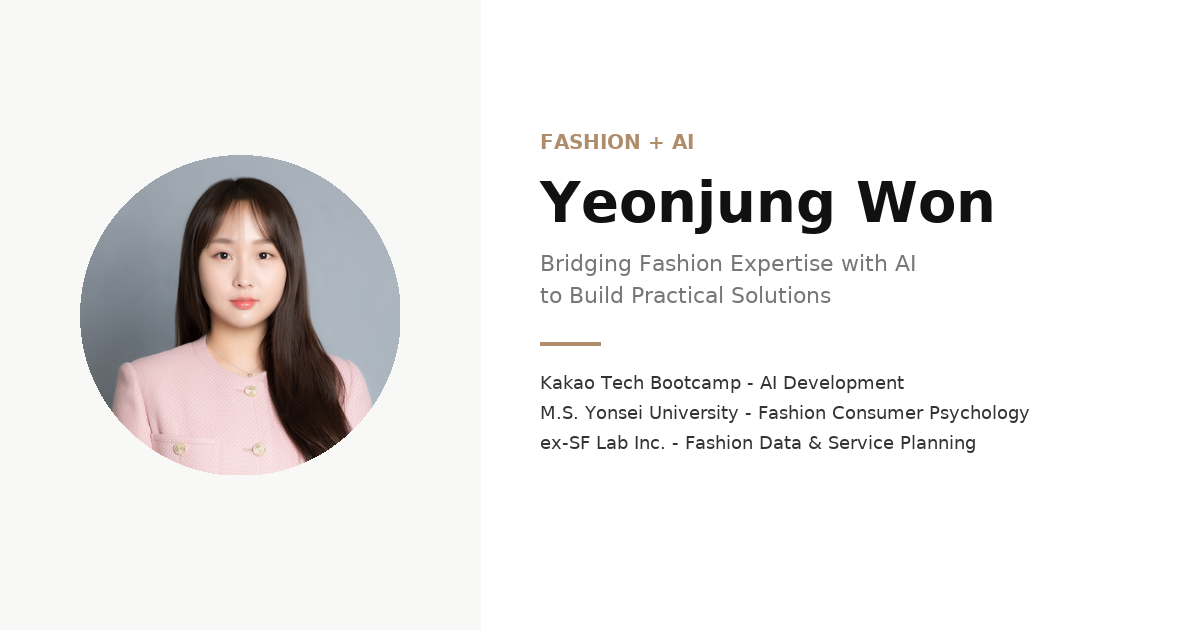
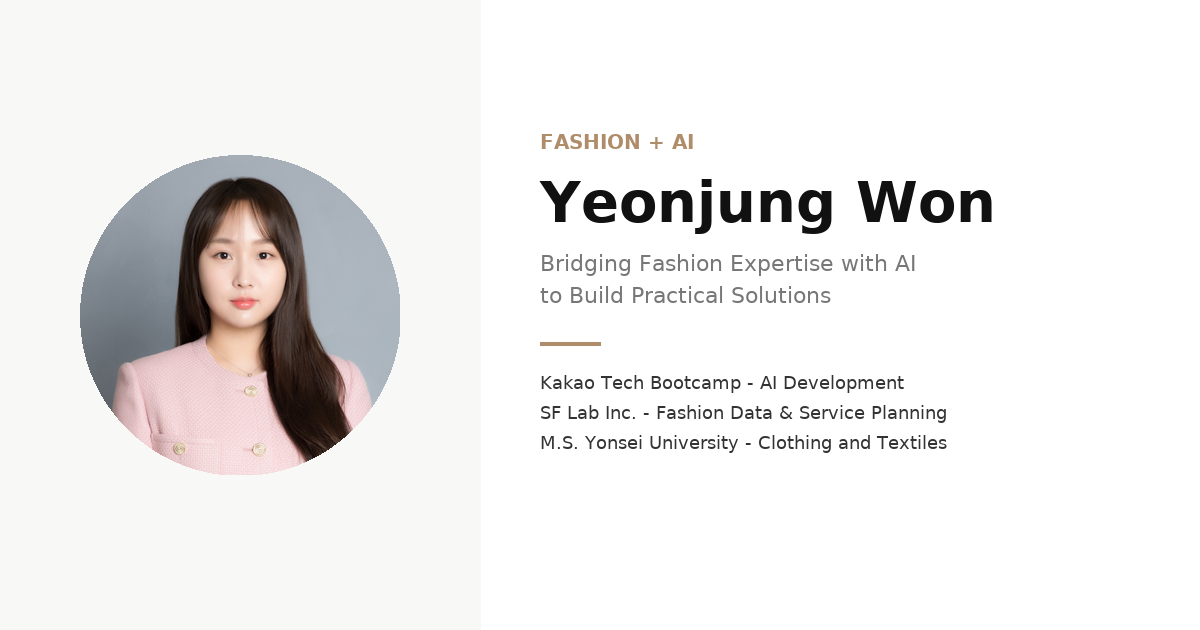
Update-About

Changed region(s): [[0.4317, 0.6333, 0.8633, 0.6635], [0.4317, 0.6937, 0.8325, 0.7238]]

diff --git a/index.html b/index.html
@@ -97,7 +97,7 @@
                         <li>
                             <span class="timeline-period">2018 &ndash; 2021</span>
                             <span class="timeline-title">Yonsei University &mdash; M.S.</span>
-                            <span class="timeline-desc">Clothing &amp; Environment, Fashion Consumer Psychology</span>
+                            <span class="timeline-desc">Clothing and Textiles, Fashion Consumer Psychology</span>
                         </li>
                         <li>
                             <span class="timeline-period">2014 &ndash; 2018</span>

diff --git a/make_og_image.py b/make_og_image.py
@@ -88,8 +88,8 @@ y += 30
 # 이력 요약 (작은 글씨)
 items = [
     "Kakao Tech Bootcamp - AI Development",
-    "M.S. Yonsei University - Fashion Consumer Psychology",
-    "ex-SF Lab Inc. - Fashion Data & Service Planning",
+    "SF Lab Inc. - Fashion Data & Service Planning",
+    "M.S. Yonsei University - Clothing and Textiles",
 ]
 for item in items:
     draw.text((TEXT_X, y), item, font=font_body, fill=TEXT)
